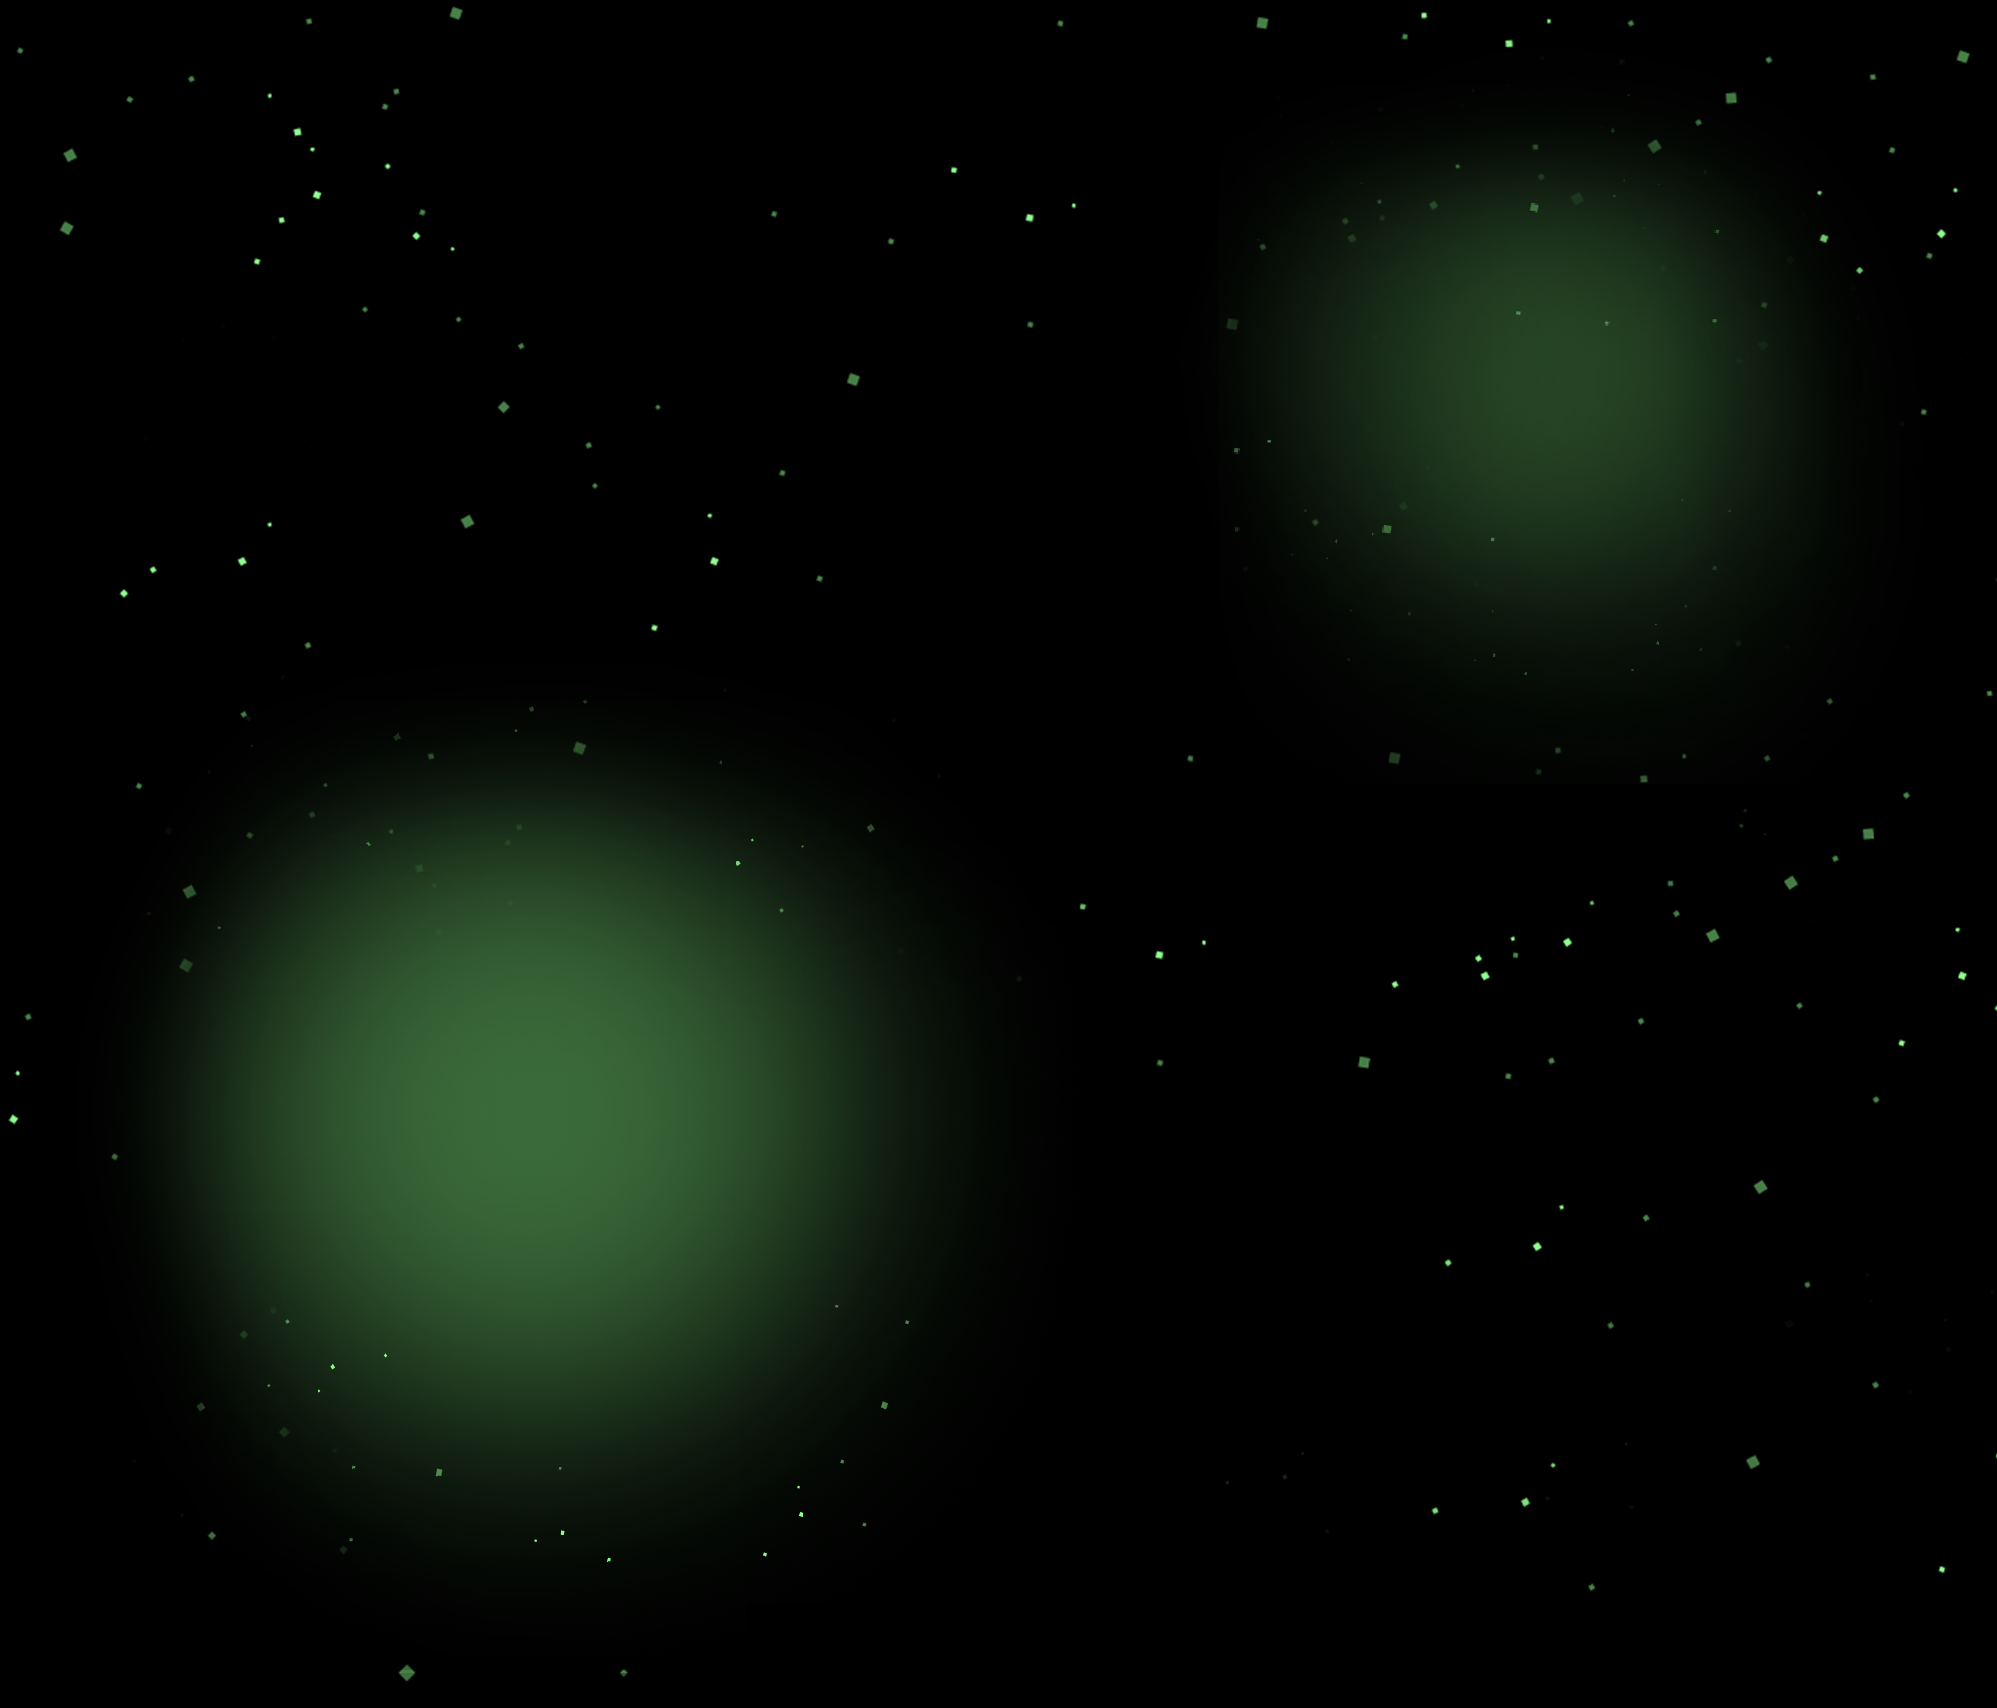
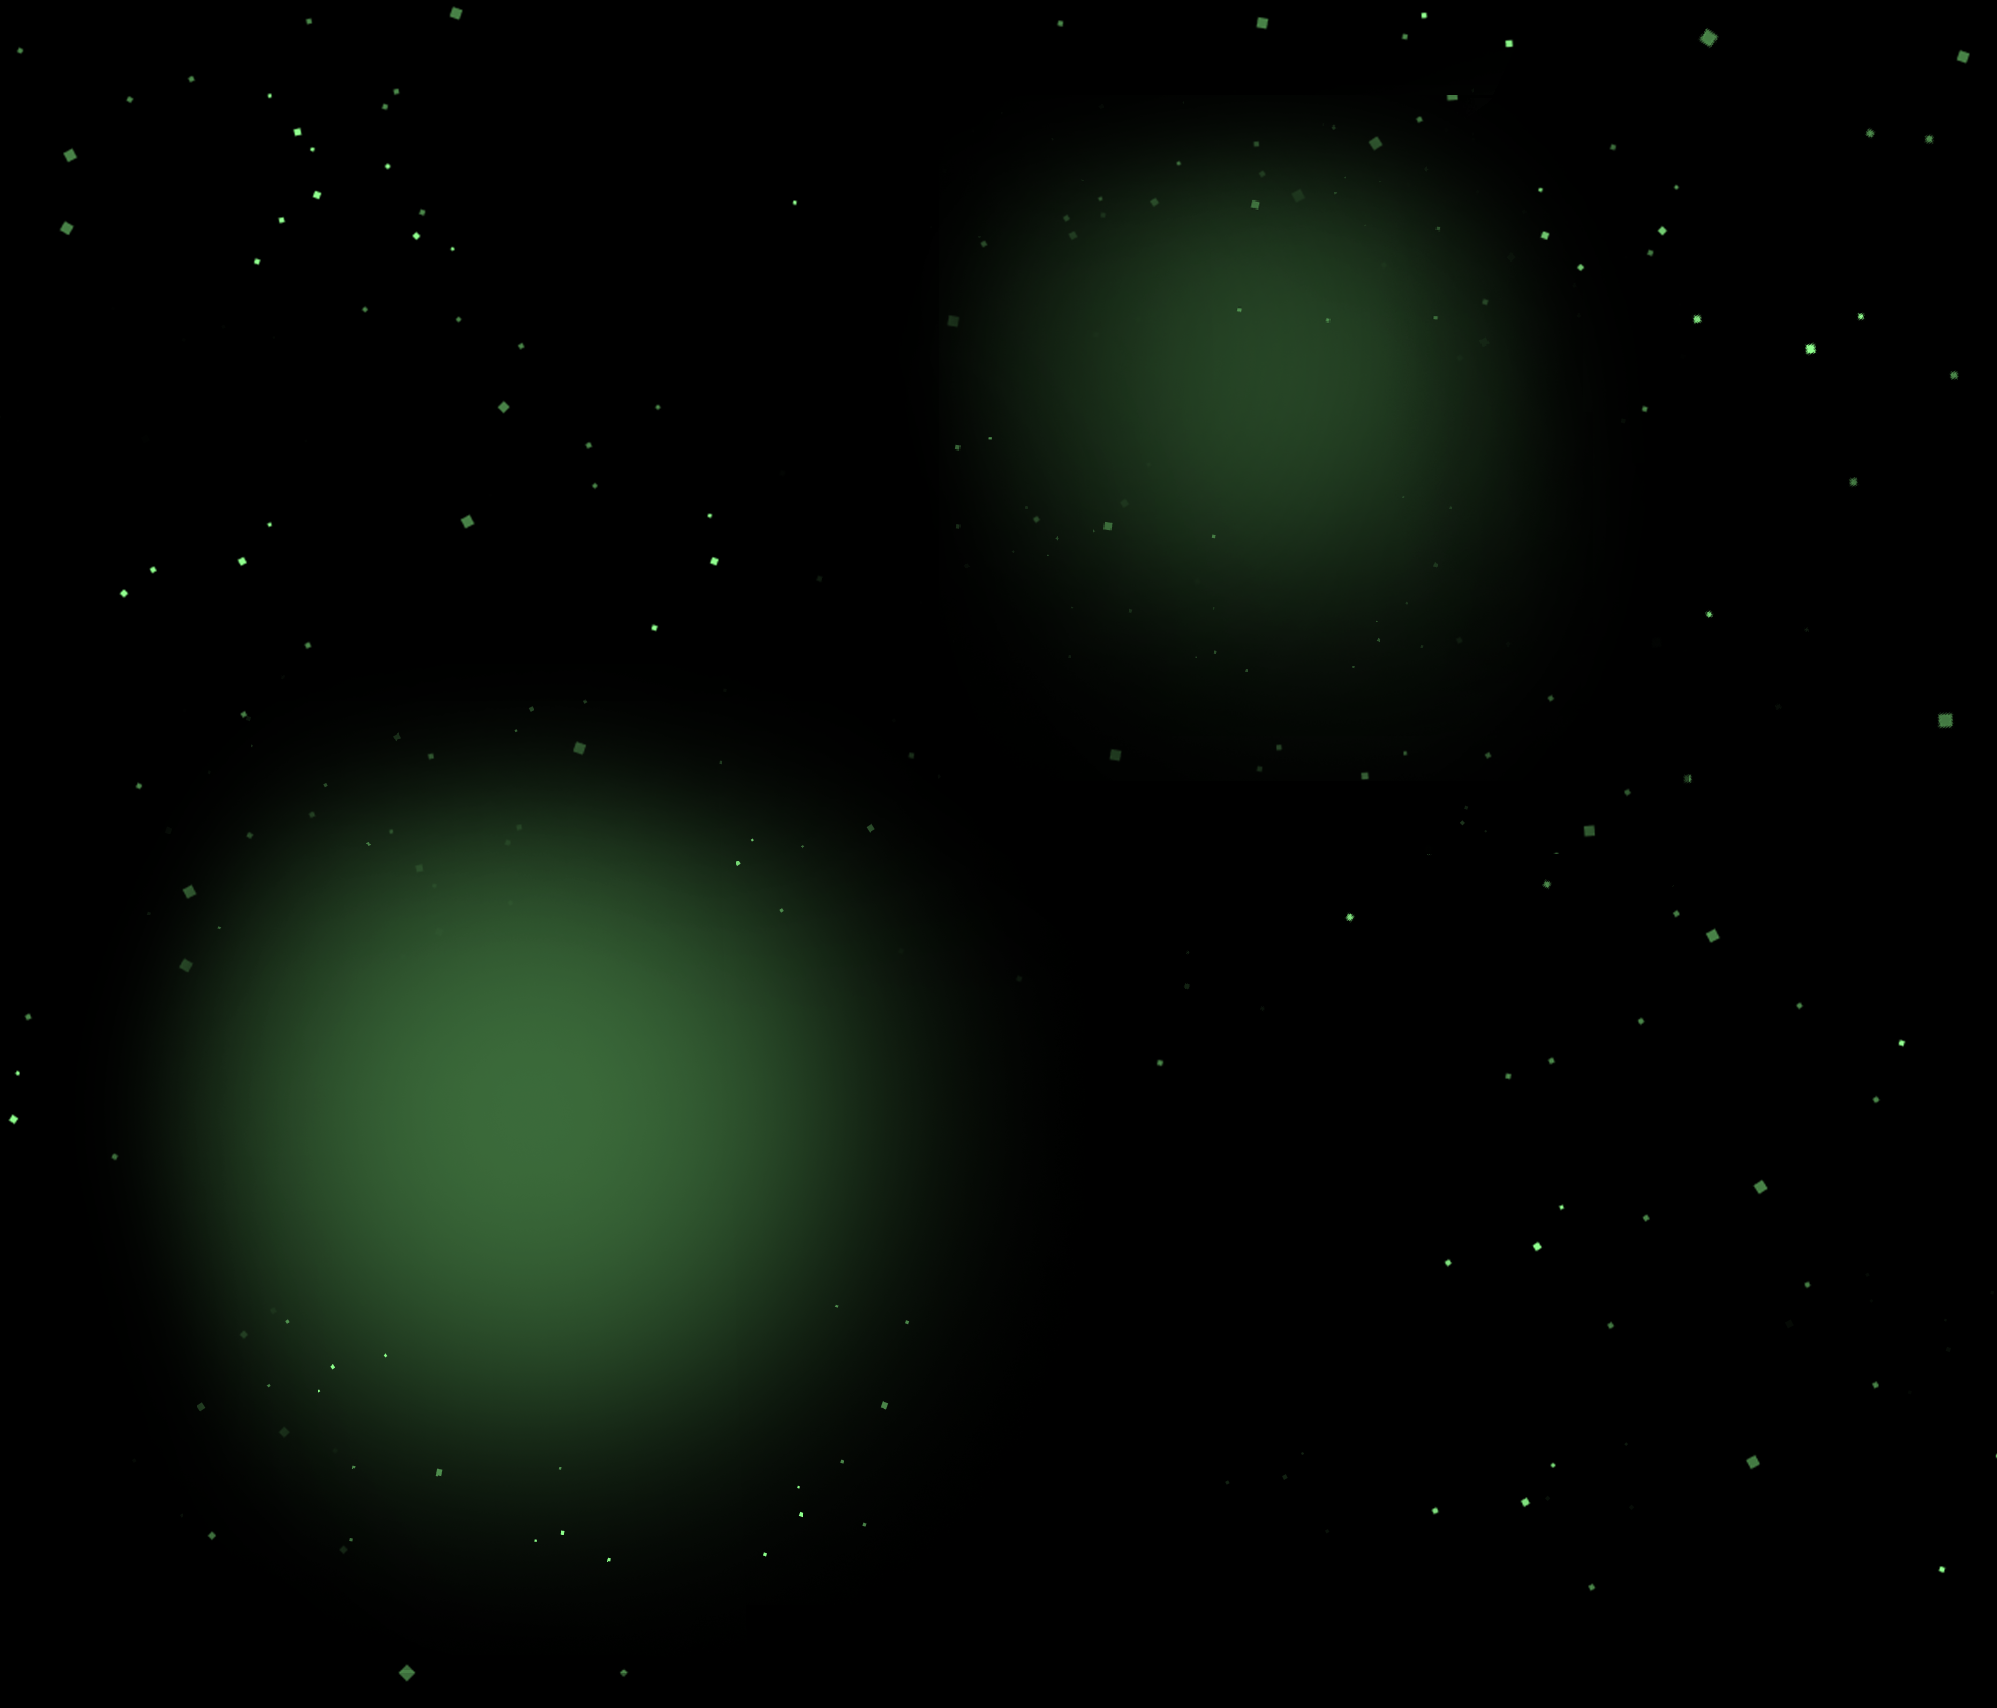
footer and bg fix

Changed region(s): [[0.7141, 0.0931, 0.9004, 0.3724], [0.4967, 0.0931, 0.683, 0.3724]]

diff --git a/src/components/ResidentCard.jsx b/src/components/ResidentCard.jsx
@@ -24,7 +24,7 @@ const ResidentCard = ({ residentUrl }) => {
           {/* image container */}
           <div className="max-h-[25.125rem] max-w-auto border-b-[2px]  border-[#8EFF8B] overflow-hidden">
             <div
-              style={{ height: "auto",  width: "auto"}}
+              style={{ height: "auto", width: "auto" }}
               className="transform translate-y-[-1rem]"
             >
               <img
@@ -54,22 +54,34 @@ const ResidentCard = ({ residentUrl }) => {
         </section>
         {/* description container  */}
         <section>
-          <h2 className="p-4 mx-2 pt-5 pb-1 border-b-[1px]  border-[#8fff8b44] font-bold text-[2rem]">
+          {/* character name  */}
+          <h2 className=" truncate p-4 mx-2 pt-5 pb-1 border-b-[1px]  border-[#8fff8b44] font-bold text-[2rem]">
             {residentInfo?.name}
           </h2>
           <ul className="flex flex-col mx-5 gap-4 pb-5 text-[#938686] m-3">
             <li>
               Species
-              <span className=" ml-[4.5rem] text-white text-xl">{residentInfo?.species}</span>
+              <span className=" ml-[4.5rem] text-white text-xl">
+                {residentInfo?.species}
+              </span>
             </li>
             <li>
               Origin
-              <span className="ml-[5.1rem] text-white text-xl">{residentInfo?.origin.name.replace(/\b\w/g, c => c.toUpperCase())}</span>
+              <span className="ml-[5.1rem] text-white text-xl">
+                {residentInfo?.origin.name.replace(/\b\w/g, (c) =>
+                  c.toUpperCase()
+                )}
+              </span>
             </li>
             <li>
-            Times Apear<span className="ml-[2.1rem] text-white text-xl">{residentInfo?.episode.length === 0
-    ? "none"
-    : `${residentInfo?.episode.length} ${residentInfo?.episode.length === 1 ? "time" : "times"}`}</span>
+              Times Apear
+              <span className="ml-[2.1rem] text-white text-xl">
+                {residentInfo?.episode.length === 0
+                  ? "none"
+                  : `${residentInfo?.episode.length} ${
+                      residentInfo?.episode.length === 1 ? "time" : "times"
+                    }`}
+              </span>
             </li>
           </ul>
         </section>

diff --git a/src/components/LocationInfo.jsx b/src/components/LocationInfo.jsx
@@ -1,20 +1,28 @@
 const LocationInfo = ({ dimensionData }) => {
   return (
     <>
-      <section className="relative mt-12 flex flex-col gap-5">
+      <section className="relative mt-12 flex flex-col gap-5 pb-5">
         <div className="flex justify-center">
-          <span className="text-xl text-[#8EFF8B]">
+          <span className="text-2xl text-[#8EFF8B]">
             ¡Welcome to the location {dimensionData?.id}!
           </span>
         </div>
-        <div className="border p-3 border-green-300">
+        <div className="   border-y-[#00800062]  p-3  bg-gradient-to-r from-[#00000000] via-[#93868649] to-[#00000000]">
           <div className="flex justify-center">
-            <h2 className=" border-b px-16 border-b-[#00800062] text-xl">{dimensionData?.name}</h2>
+            <h2 className=" px-10 border-b p-1 border-b-[#92929262] text-xl">
+              {dimensionData?.name}
+            </h2>
           </div>
           <ul className=" m-3 flex  flex-col gap-2">
-            <li>type: {dimensionData?.type}</li>
-            <li>Dimension: {dimensionData?.dimension}</li>
-            <li>Population: {dimensionData?.residents.length}</li>
+            <li>
+              type: <span className="ml-16 text-[#8EFF8B]">{dimensionData?.type}</span>
+            </li>
+            <li>
+              Dimension: <span className="ml-4 text-[#8EFF8B]">{dimensionData?.dimension}</span>
+            </li>
+            <li>
+              Population: <span className="ml-2 text-[#8EFF8B]">{dimensionData?.residents.length}</span>
+            </li>
           </ul>
         </div>
       </section>

diff --git a/src/components/Backgrounds.jsx b/src/components/Backgrounds.jsx
@@ -1,24 +1,26 @@
 const Backgrounds = () => {
-    return (
-      <>
-        {/* rick and morty header */}
-        
-        <div className="flex justify-center">
-          <div className="absolute top-0 w-screen">
-           
-          <img src="images/headerbg.png" alt="heager background"/>
-         
-          </div>
-          <div className="relative top-0 w-screen -m-24 translate-y-24">
-            <img src="images/header.png" alt="rick & morty logo" className="w-screen" />
-          </div>
-          {/* <div className="bg-repeat-y bg-center" style={{ backgroundImage: "url(/images/pagebg.png)" }}></div> */}
+  return (
+    <>
+      {/* rick and morty header */}
 
-
+      <div className="flex justify-center">
+        <div className="absolute flex justify-center top-0 w-screen overflow-hidden">
+          <img
+            src="images/headerbg.png"
+            alt="heager background"
+            className="min-h-[65rem] min-w-[125rem]"
+          />
         </div>
-        
-      </>
-    );
-  };
-  export default Backgrounds;
-  
+        <div className="relative flex justify-center top-0 w-screen -m-20 translate-y-20 overflow-hidden">
+          <img
+            src="images/header.png"
+            alt="rick & morty logo"
+            className="min-w-[53rem]"
+          />
+        </div>
+        {/* <div className="bg-repeat-y bg-center" style={{ backgroundImage: "url(/images/pagebg.png)" }}></div> */}
+      </div>
+    </>
+  );
+};
+export default Backgrounds;

diff --git a/src/App.jsx b/src/App.jsx
@@ -6,6 +6,7 @@ import LocationForm from "./components/LocationForm";
 import LocationInfo from "./components/LocationInfo";
 import ResidentList from "./components/ResidentList";
 import Backgrounds from "./components/Backgrounds";
+import Footer from "./components/Footer";
 
 function App() {
   const [dimensionData, setDimensionData] = useState(null);
@@ -38,9 +39,9 @@ const handleSubmit = (e) => {
   return (
 <>
     <div className="bg-custom bg-center min-w-max">
-       <Backgrounds></Backgrounds>
+       <Backgrounds/>
       <main
-        className=" font-fira-code bg-center bg-cover text-white min-h-screen  min-w-max flex justify-center items-center"
+        className=" font-fira-code bg-center bg-cover text-white min-h-[70vh]  min-w-max flex justify-center items-center overflow-hidden"
         // style={{
         //   backgroundImage: "url(rick40x705.jpg)",
         //   display: "flex",
@@ -55,6 +56,7 @@ const handleSubmit = (e) => {
           <LocationForm handleSubmit={handleSubmit} />
           <LocationInfo dimensionData={dimensionData} />
           <ResidentList currentLocation={dimensionData} residents={dimensionData?.residents ?? []} />
+          <Footer/>
         </div>
       </main>
     </div>

diff --git a/src/components/Footer.jsx b/src/components/Footer.jsx
@@ -1,0 +1,15 @@
+const Footer = () => {
+  return (
+    <div className="flex justify-center">
+        <div className="absolute repeat-x flex transform -translate-y-[16rem] justify-center w-screen  overflow-hidden">
+          <img
+            src="images/footer.png"
+            alt="rick & morty logo"
+            className=" min-w-[159rem] max-w-[159rem] bg-gradient from-black overflow-hidden w-[125rem]"
+          />
+        </div>
+      </div>
+    // </div>
+  );
+};
+export default Footer;

diff --git a/src/components/LocationForm.jsx b/src/components/LocationForm.jsx
@@ -13,9 +13,11 @@ const LocationForm = ({ handleSubmit }) => {
           placeholder="Type a location ID..."
           type="number"
         />
-        <button className=" px-4 border-l-2 border-l-[#8EFF8B] bg-[#8EFF8B80] l z-10 bg-green">Search</button>
+        <button className=" px-4 border-l-2 border-l-[#8EFF8B] bg-[#8EFF8B80] l z-10 bg-green">
+          Search
+        </button>
       </form>
-      </div>
+    </div>
   );
 };
 export default LocationForm;

diff --git a/src/components/Pagination.jsx b/src/components/Pagination.jsx
@@ -1,6 +1,6 @@
 const Pagination = ({ pages, setCurrentPage,currentPage }) => {
   return (
-    <ul className="flex gap-5">
+    <ul className="flex gap-5 pb-36">
       {pages.map((page) => (
         <li className={`${currentPage === page && "text-cyan-500"}`}onClick={()=>setCurrentPage(page)} key={page}>{page}</li>
       ))}

diff --git a/src/App.css b/src/App.css
@@ -1,7 +1,14 @@
 .bg-custom{
+    /* position: absolute; */
     background: url(images/pagebg.png);
-    background-position: center;
+    /* background-position: center; */
     /* background-repeat: repeat-y; */
-    width: 1400;
+    min-width: 2000;
     height: 1000;
+    top: 0;
+
+    
+
+    
+    
 }
